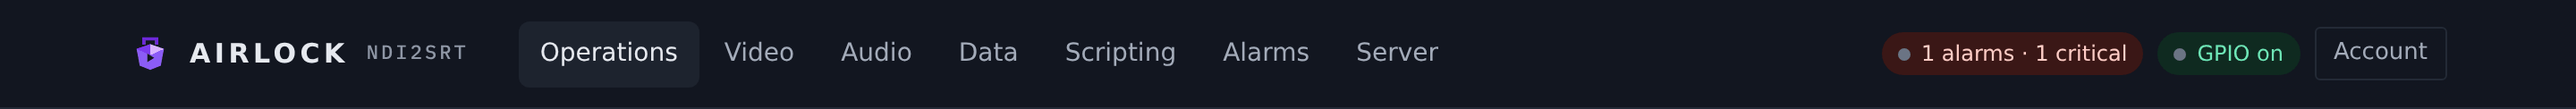
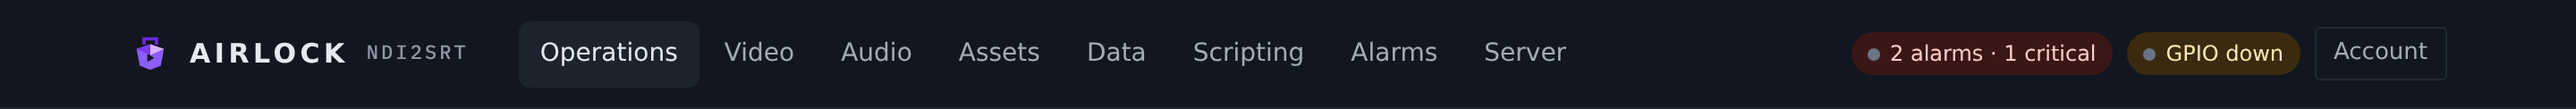
Update the Airlock manual
Generated from the product repository's manual/ tree.

Changed region(s): [[0.7188, 0.2951, 0.9062, 0.6885], [0.375, 0.3934, 0.625, 0.5656]]

diff --git a/docs/assets/library.md b/docs/assets/library.md
@@ -1,0 +1,112 @@
+# The asset library
+
+Every file a fill or a censor plays comes from the box's **asset library**: the
+`assets` folder beside the configuration. Video slates and clips, video daypart
+slates and clips, and an audio delay's fill, censor and pair files are all lists
+of the files already uploaded, of the right kind. Nothing anywhere takes a typed
+path.
+
+The **Assets** page, in the main nav between **Audio** and **Data**, is where
+the library is managed: upload files, see what each one is and which settings
+use it, play or preview it, check a clip, and delete what nothing needs.
+
+![The Assets page: uploads at the top, then the library with previews, uses and delete](../img/assets/assets-page.png){ .shot }
+
+## What the library holds
+
+| Kind | Files | Used by |
+|---|---|---|
+| Image | `.png`, `.jpg`, `.jpeg` | a still-image fill, on its own or in a daypart |
+| Clip | `.ts`, `.m2ts`, `.mts`, `.mp4`, `.mov`, `.mkv` | a clip fill, on its own or in a daypart. Each is checked, and can be made to fit |
+| Audio | `.wav`, `.mp3`, `.flac`, `.aac`, `.m4a`, `.ogg`, `.opus`, `.aif`, `.aiff` | an audio delay's fill and censor files, their schedules, and its pairs' fills |
+
+Any other file can be uploaded, but it is listed as **Other** and no setting
+offers it.
+
+## To upload files
+
+1. Open **Assets**.
+2. Drop one or more files on **Upload**, or select **Choose files…** and pick
+   them.
+3. Read each file's line in the queue under the drop zone. A file is uploaded
+   in its turn, with a progress bar, and then shows:
+    - **uploaded**: an image or audio file that is now in the library.
+    - **will play**: a clip the engine plays as it is.
+    - **will not play as it is**: a clip to **Check** and **Make it fit** in
+      the library below. See
+      [Clips: what the engine will play](../video/fills.md#clips-what-the-engine-will-play).
+    - The server's reason, if it refused the file.
+
+A file with the name of one already in the library replaces it. Every image,
+clip and audio setting also has **Upload…** beside it. That uploads the file to
+the same library and selects it.
+
+## The library
+
+Each row is one file:
+
+| Column | What it shows |
+|---|---|
+| **Preview** | A thumbnail of an image; a play button for an audio file (one plays at a time, press again to stop); an icon for a clip. |
+| **File** | The name, kind, size and when it was uploaded. An image or clip has **Check**: the engine's own verdict on the file, with **Make it fit** when a clip will not play and the box has `ffmpeg`. |
+| **Used by** | Every setting that names the file. A setting that is not in force — a daypart that is switched off, a slate while the picture is a clip, a censor file while the censor plays a tone — is marked **(off)**. |
+| **Delete** | Press **Delete**, then **Delete for good** within four seconds. |
+
+When the box has more than one channel, **Fit for** picks the channel whose
+frame rate **Check** and **Make it fit** use. The filter beside it shows one
+kind at a time, with a count of each.
+
+### Deleting a file
+
+A file that any setting names cannot be deleted, even when that setting is off,
+because switching the setting back on would air a missing file. Its **Delete**
+is greyed out. Point those settings at another file first, save, and then
+delete it. The server refuses the same thing with `409` and the list of
+settings.
+
+## The rule a save follows
+
+A save that names a fill or censor file outside the library is refused. The
+message names the setting and the file. Only the files a setting actually uses
+are checked: a clip path left behind while the picture is a slate is not, and a
+disabled daypart is not checked until it is switched on.
+
+An older configuration that names a file elsewhere still loads and airs, so a
+box is never stopped by it. The console marks the setting **not in the asset
+library**, and nothing on that page saves until it is fixed. **Import into
+library** copies the file in and points the setting at the copy.
+
+## A primary and its backups
+
+A backup adopting its primary's configuration is never refused. The asset sync
+copies every file the primary's settings name into the backup's own library,
+and the backup's **Assets** page shows them like any other.
+See [Setting up a pair](../redundancy/setup.md#step-6-check-the-assets).
+
+## Who can do what
+
+| | viewer | operator | admin |
+|---|---|---|---|
+| See the library, preview a file, read its uses | | yes | yes |
+| Upload, check, make a clip fit, import, delete | | yes | yes |
+| Point a setting at a file (save the configuration) | | | yes |
+
+The library is closed to a viewer, as the configuration is: the page says
+so instead of listing files.
+
+On a backup, uploads and deletes are refused like every other control. Its
+library follows the primary's.
+
+## REST
+
+| Method | Path | Body / parameters | Does |
+|---|---|---|---|
+| `GET` | `/api/assets` | — | the library: `dir`, and per file `name`, `path`, `kind`, `bytes`, `modified` and `used_by` (`[{setting, active}]`) |
+| `POST` | `/api/assets` | `?name=<file>`, body = the file | upload into the library; a clip is probed and the verdict returned |
+| `POST` | `/api/assets/import` | `{path}` | copy a file on the box into the library |
+| `GET` | `/api/assets/file/{name}` | — | the file itself (previews) |
+| `DELETE` | `/api/assets/item/{name}` | — | delete it; `409 {error, used_by}` while a setting names it |
+
+The per-channel routes under `/api/channels/{n}/fill/assets` (upload, `probe`,
+`convert`, `job`) check and convert at that channel's frame rate. See the
+[REST API](../control/rest.md#asset-library-operator).

diff --git a/docs/video/fills.md b/docs/video/fills.md
@@ -42,7 +42,8 @@ another channel**, pick the target and select **Copy**, then **Save changes**.
 
 1. Select the channel in the left-hand list.
 2. In the **Default fill** card, pick a tile under **Picture**.
-3. Fill in the asset field the tile reveals (a file path or an NDI source).
+3. Choose what the tile asks for: an uploaded image or clip from the list (or
+   **Upload…** one), or an NDI source from the ones this box can see.
 4. Pick a **Sound**, and set **Frequency** and **Level** if you chose the tone.
 5. Select **Save changes**.
 
@@ -89,13 +90,12 @@ fill**. A clip whose audio the engine cannot decode is marked on this page when
 ### To upload and check a clip or slate
 
 1. Choose **Clip** or **Still image** under **Picture**.
-2. Select **Upload…** beside the file field and pick the file. It is streamed to
-   the box's asset store beside the configuration, and the path field is filled
-   in for you.
+2. Select **Upload…** beside the list and pick the file. It is streamed into the
+   box's [asset library](../assets/library.md) and selected.
 3. Read the verdict under the field.
 4. Select **Save changes**.
 
-To check a path you typed yourself, select **Check** instead.
+To check a file already in the library, select it and press **Check**.
 
 The verdict is the engine's own probe — the file read the way the player reads
 it, so what it says will play, plays:
@@ -143,8 +143,11 @@ matching daypart wins; outside every daypart the default fill airs.
 1. In the **Weekly schedule** card, select **Fill daypart**.
 2. Name the row, pick its days with the day buttons, and type the **from** and
    **to** times as `HH:MM`.
-3. Choose its **Picture** and, for an image, clip or NDI fill, type the path or
-   source name.
+3. Choose its **Picture** and, for an image or clip, pick one from the
+   [asset library](../assets/library.md) (or **Upload…**). A daypart's clip has
+   the same **Check** and **Make it fit** as the default fill. For an NDI fill,
+   pick the source from the list of the ones this box can see. A saved source
+   that is not on the network right now stays selected and says so.
 4. Choose its **Sound**.
 5. Select **Save changes**.
 
@@ -176,6 +179,15 @@ The same card carries **Censor windows · censor engages on its own** — daypar
 that hold the censor on without anyone pressing anything. They use the same row
 shape and the same first-match rule. They are covered in
 [Censor, cough and slate](censor.md#scheduled-censor-dayparts).
+
+## The asset library
+
+Every file a fill or a censor plays comes from the box's **asset library** — the
+`assets` folder beside the configuration — and every image and clip setting on
+this page is a list of what is in it, with **Upload…** beside it. The top-level
+**Assets** page uploads several files at once, previews them, lists the settings
+that use each one, and deletes what nothing uses. A save that names a file
+outside the library is refused. See [The asset library](../assets/library.md).
 
 ## Dissolves
 
@@ -242,9 +254,9 @@ it, and the background thread re-prepares whatever changed.
 | Setting | Console label | Config key | Default | Meaning |
 |---|---|---|---|---|
 | Picture | Picture | `delay.fill.video` | `freeze` | `freeze`, `black`, `image`, `clip` or `ndi` |
-| Image file | Image file | `delay.fill.image_path` | `""` | the slate; PNG or JPEG, letterboxed to the output raster |
-| Clip file | Clip file | `delay.fill.clip_path` | `""` | the loop; an MPEG-TS of H.264 constrained baseline or HEVC, with AAC audio |
-| NDI source | NDI source | `delay.fill.ndi_source` | `""` | the live fill source's NDI name |
+| Image | Image | `delay.fill.image_path` | `""` | the slate; an uploaded PNG or JPEG from the asset library, letterboxed to the output raster |
+| Clip | Clip | `delay.fill.clip_path` | `""` | the loop; an uploaded MPEG-TS of H.264 constrained baseline or HEVC, with AAC audio |
+| NDI source | NDI source | `delay.fill.ndi_source` | `""` | the live fill source, chosen from the NDI sources this box sees |
 | Sound | Sound | `delay.fill.audio` | `silence` | `silence`, `tone`, `clip`, `ndi` or `mute` |
 | Frequency | Frequency | `delay.fill.tone_hz` | `1000.0` | tone frequency, 20–20000 Hz |
 | Level | Level | `delay.fill.tone_dbfs` | `-18.0` | tone level, −90 to 0 dBFS peak |

diff --git a/docs/audio/delay.md b/docs/audio/delay.md
@@ -152,7 +152,9 @@ catch something with **Post-cough** or **Post-censor** before it airs. Leave
   When the depth is reached, the output crossfades to the now-delayed live
   programme.
 
-The fill asset is any file the box's `ffmpeg` can decode. If it cannot be
+The fill asset is an audio file uploaded to the box's [asset library](../assets/library.md)
+— pick it from the list beside **Fill asset**, or **Upload…** one; there is no
+typed path. Any file the box's `ffmpeg` can decode plays. If it cannot be
 decoded, the build is silent and the log says so.
 
 **Fill schedule** dayparts the asset: the first row whose days and window match
@@ -347,7 +349,7 @@ REST, TCP and GPIO.
 | Rollout window | **Rollout xfade** | `audio_delays[].rollout_overlap_ms` | `250` | Equal-power crossfade length for a rollout exit, 0–10000 ms. |
 | Build mode | **Build mode** | `audio_delays[].build_mode` | `expand` | `expand` (stretch the live programme) or `insert` (air a fill while the ring fills). |
 | Fill strategy | **Fill** | `audio_delays[].fill_strategy` | `squeeze` | `squeeze` (stretch the asset to span the build) or `silent`. |
-| Fill asset | **Fill asset** | `audio_delays[].fill_asset` | `""` | A file `ffmpeg` can decode, aired during an insert build. |
+| Fill asset | **Fill asset** | `audio_delays[].fill_asset` | `""` | An uploaded audio file from the [asset library](../assets/library.md), aired during an insert build. |
 | Fill schedule | **Fill schedule** | `audio_delays[].fill_schedule[]` | `[]` | Dayparted fill assets: `{ days, start, end, asset }`. |
 | Join crossfade | **Join xfade** | `audio_delays[].crossfade_ms` | `20` | Crossfade over a dump join. 10–30 ms is the useful range; anything above 100 ms is clamped. |
 | Channels | **Channels** | `audio_delays[].channels` | `2` | `1` or `2`. Set it to match the source: the ring carries whatever the source delivers. |
@@ -358,7 +360,7 @@ REST, TCP and GPIO.
 | Underfill | **Underfill** | `audio_delays[].censor_underfill_ms` | `100` | Start the cover this much earlier, ms. |
 | Overfill | **Overfill** | `audio_delays[].censor_overfill_ms` | `100` | End the cover this much later, ms. |
 | Censor cover | **Censor cover** | `audio_delays[].censor_strategy` | `tone` | `tone`, `silence` or `file`. |
-| Censor asset | **Censor asset** | `audio_delays[].censor_asset` | `""` | The looped file aired when the cover is `file`. |
+| Censor asset | **Censor asset** | `audio_delays[].censor_asset` | `""` | The uploaded audio file looped when the cover is `file`. |
 | Censor schedule | **Censor schedule** | `audio_delays[].censor_schedule[]` | `[]` | Dayparted censor assets, same shape as the fill schedule. |
 | Dump strategy | — | `audio_delays[].dump_strategy` | `dump` | Reserved. `dump` or `censor` is accepted and validated; only `dump` has an effect today. |
 | Licence | — | `audio_delays[].licence_assigned` | `true` | Marks the block for the `ADELAY` pool. |

diff --git a/docs/start/console.md b/docs/start/console.md
@@ -22,7 +22,7 @@ line saying what it does.
 | Part | What it does |
 |---|---|
 | **AIRLOCK · NDI2SRT** | The brand mark is the home button. Home is **Operations**. |
-| Main nav | **Operations · Video · Audio · Data · Scripting · Alarms · Server** |
+| Main nav | **Operations · Video · Audio · Assets · Data · Scripting · Alarms · Server** |
 | Alarms pill | *No alarms*, or *n alarms · n critical*. Click it to open **Alarms**. Green, amber or red. |
 | Licence pill | **Unlicensed · output watermarked**, shown only when this box has no valid licence. |
 | GPIO pill | **GPIO on** or **GPIO down**, shown only when the GPIO client is enabled. |
@@ -40,7 +40,7 @@ Three sections carry a sub-nav of their own, and two build one from the page:
 | **Scripting** | Scripts · Variables · Live log · Engine settings — Scripts and Variables carry a count |
 | **Server** | General · NDI · Email & alerts · Authentication · Users · API access · Panel · Licence · Telemetry · Redundancy · Audit log · Configuration |
 
-**Operations**, **Alarms** and **Account** have no sub-nav.
+**Operations**, **Assets**, **Alarms** and **Account** have no sub-nav.
 
 ### The address is the hash
 
@@ -52,6 +52,7 @@ button works.
 | `#/` | Operations |
 | `#/delay` `#/encoders` `#/decoders` `#/fills` | the Video pages |
 | `#/audio-io` `#/audio-sources` `#/audio-encoders` `#/audio-decoders` `#/audio-delay` | the Audio pages |
+| `#/assets` | the asset library |
 | `#/data` `#/gpio` | the Data pages |
 | `#/scripts` `#/variables` `#/script-log` `#/script-engine` `#/script/<name>` | the Scripting pages |
 | `#/alarms` `#/account` | Alarms and Account |
@@ -238,6 +239,15 @@ anything.
 ![Audio inputs and outputs](../img/audio/io.png){ .shot }
 
 Each of these has its own chapter under [Audio](../audio/io.md).
+
+## Assets
+
+The box's library of images, clips and audio files: the only files a fill, a
+daypart or an audio delay's fill and censor may play. Drop several files at once
+on **Upload**; each row of the library shows a preview (a picture, or a play
+button for audio), **Check** for a clip, every setting that uses the file, and
+**Delete**, which is greyed out while anything uses it. See
+[The asset library](../assets/library.md).
 ## Data
 
 **Receivers & routes** is where automation data comes in, is held in a channel's
@@ -337,6 +347,7 @@ In detail:
 | Build, dump, rollout, set depth, dissolves | | yes | yes |
 | Enable, disable, start, stop a block | | yes | yes |
 | Censor, cough, slate, cues | | yes | yes |
+| See, upload and delete assets | | yes | yes |
 | Take and give back the channel lock | | yes | yes |
 | Reset statistics | | yes | yes |
 | Save the configuration | | | yes |

diff --git a/docs/reference/config.md b/docs/reference/config.md
@@ -192,8 +192,8 @@ What the output airs when there is no delayed programme to air.
 | Key | Type | Default | Meaning |
 |---|---|---|---|
 | `…delay.fill.video` | string | `"freeze"` | `freeze` (hold the last frame), `black`, `image`, `clip`, or `ndi` (a live source, scaled to the raster) |
-| `…delay.fill.image_path` | string | `""` | PNG or JPEG slate, letterboxed to the output raster |
-| `…delay.fill.clip_path` | string | `""` | A looped `.ts` file — H.264 or HEVC with AAC, read by the built-in decoders |
+| `…delay.fill.image_path` | string | `""` | PNG or JPEG slate, letterboxed to the output raster. Must be in the asset library (`<config dir>/assets`) — a save naming a file elsewhere is refused |
+| `…delay.fill.clip_path` | string | `""` | A looped `.ts` file — H.264 or HEVC with AAC, read by the built-in decoders. Asset library only, as above |
 | `…delay.fill.ndi_source` | string | `""` | The live NDI source for `video: ndi` |
 | `…delay.fill.audio` | string | `"silence"` | `silence`, `tone`, `clip` (the clip's own audio), `ndi` (the live source's audio), or `mute` (no audio frames at all) |
 | `…delay.fill.tone_hz` | float | `1000.0` | Tone frequency |

diff --git a/docs/control/rest.md b/docs/control/rest.md
@@ -402,6 +402,20 @@ curl -s -X POST "http://localhost:8090/api/audio-delays/studio-dump/cough?down=t
 
 ---
 
+## Asset library — operator
+
+| Method | Path | Body / parameters | Does |
+|---|---|---|---|
+| `GET` | `/api/assets` | — | `{dir, assets:[{name, path, kind, bytes, modified, used_by:[{setting, active}]}]}` |
+| `POST` | `/api/assets` | `?name=<file>`, body = the file (`application/octet-stream`) | upload into the library; returns `{ok, name, path, kind, bytes, probe}` (`probe` for an image or clip) |
+| `POST` | `/api/assets/import` | `{path}` | copy a file on the box into the library |
+| `GET` | `/api/assets/file/{name}` | — | the file, with its content type |
+| `DELETE` | `/api/assets/item/{name}` | — | delete it; `409 {error, used_by}` while a setting names it |
+
+See [The asset library](../assets/library.md).
+
+---
+
 ## Fill assets — operator
 
 | Method | Path | Body / parameters | Does |
